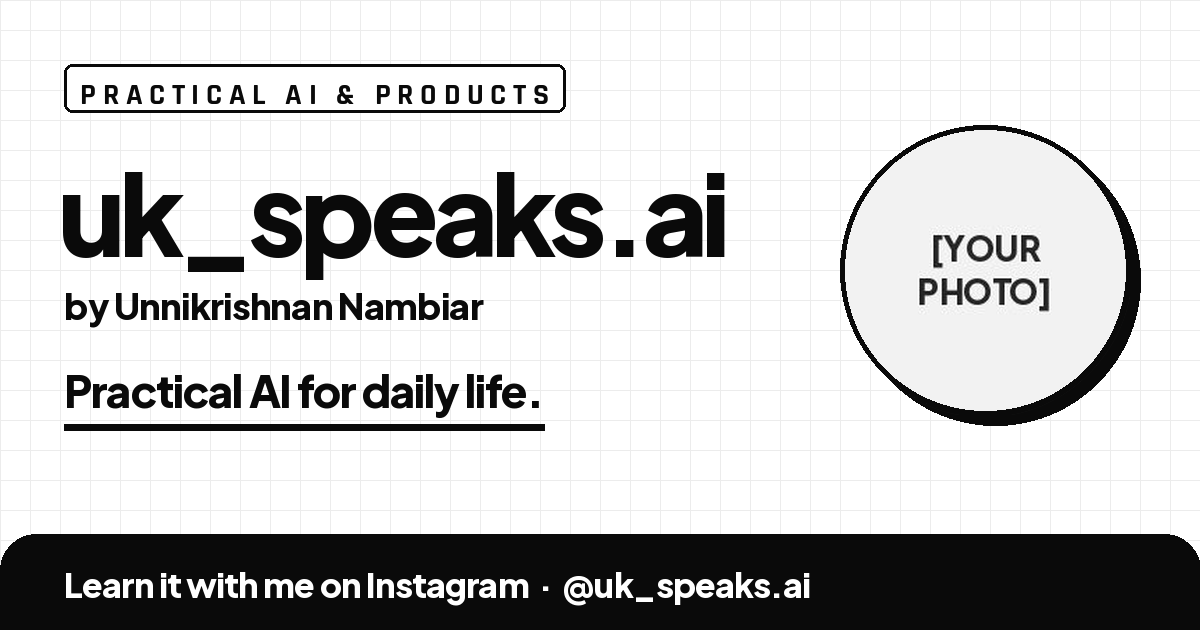
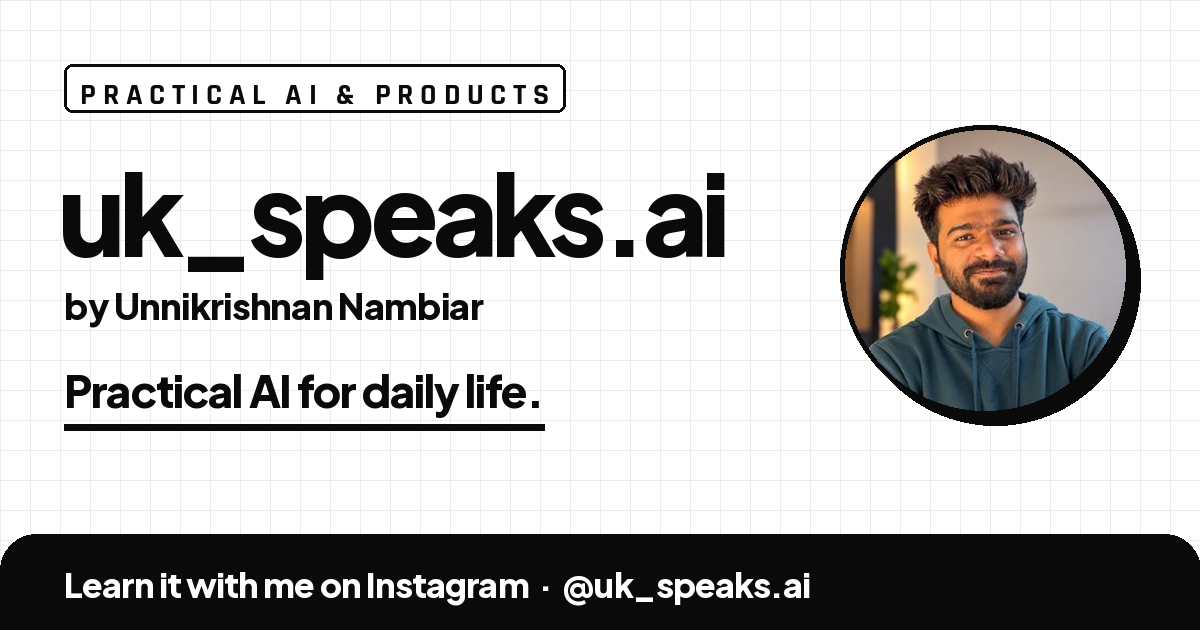
Add the real profile photo and full-colour home preview image
Claude-Session: https://claude.ai/code/session_01DrEtdZbPU4S7ibM2pCaEaR

Changed region(s): [[0.6783, 0.181, 0.9558, 0.6635]]

diff --git a/index.html b/index.html
@@ -13,14 +13,14 @@
   <meta property="og:title" content="uk_speaks.ai — Practical AI for daily life">
   <meta property="og:description" content="AI shouldn't need a tech background. Short reels showing everyday people how to actually use it, on the apps they already have.">
   <meta property="og:url" content="https://unnikrishnan-nambiar.github.io/uk_speaks.ai/">
-  <meta property="og:image" content="https://unnikrishnan-nambiar.github.io/uk_speaks.ai/assets/og/og-home.png">
+  <meta property="og:image" content="https://unnikrishnan-nambiar.github.io/uk_speaks.ai/assets/og/og-home.png?v=2">
   <meta property="og:image:width" content="1200">
   <meta property="og:image:height" content="630">
   <meta property="og:image:alt" content="uk_speaks.ai — Practical AI for daily life, by Unnikrishnan Nambiar">
   <meta name="twitter:card" content="summary_large_image">
   <meta name="twitter:title" content="uk_speaks.ai — Practical AI for daily life">
   <meta name="twitter:description" content="AI shouldn't need a tech background. Short reels showing everyday people how to actually use it, on the apps they already have.">
-  <meta name="twitter:image" content="https://unnikrishnan-nambiar.github.io/uk_speaks.ai/assets/og/og-home.png">
+  <meta name="twitter:image" content="https://unnikrishnan-nambiar.github.io/uk_speaks.ai/assets/og/og-home.png?v=2">
 
   <link rel="icon" href="favicon.svg" type="image/svg+xml">
   <link rel="icon" href="favicon-32.png" type="image/png" sizes="32x32">
@@ -41,8 +41,8 @@
       <div class="intro">
         <p class="bio">AI shouldn't need a tech background. I show everyday people how to actually use it — on the apps they already have. Building uk_speaks.ai.</p>
         <picture class="photo">
-          <source srcset="assets/img/photo.webp" type="image/webp">
-          <img src="assets/img/photo.jpg" width="104" height="104" alt="Unnikrishnan Nambiar">
+          <source srcset="assets/img/photo.webp?v=2" type="image/webp">
+          <img src="assets/img/photo.jpg?v=2" width="104" height="104" alt="Unnikrishnan Nambiar">
         </picture>
       </div>
     </header>

diff --git a/tools/make-images.py b/tools/make-images.py
@@ -171,7 +171,7 @@ def make_og_home():
     d.rectangle([64, ty + 62, end, ty + 68], fill=INK)
     circle_photo(img, os.path.join(ROOT, "assets", "img", "photo.jpg"), (985, 270), 290)
     footer_band(img, "Learn it with me on Instagram  ·  @uk_speaks.ai")
-    save_og(img, "og-home.png")
+    save_og(img, "og-home.png", full_color=True)  # a palette would posterize the photo
 
 
 def make_og_guide(keyword, title, filename):
@@ -203,9 +203,11 @@ def make_og_guide(keyword, title, filename):
     save_og(img, filename)
 
 
-def save_og(img, filename):
+def save_og(img, filename, full_color=False):
     path = os.path.join(ROOT, "assets", "og", filename)
-    img.quantize(colors=64, method=Image.Quantize.MEDIANCUT).save(path, optimize=True)
+    if not full_color:
+        img = img.quantize(colors=64, method=Image.Quantize.MEDIANCUT)
+    img.save(path, optimize=True)
     print(f"{os.path.relpath(path, ROOT)}  {os.path.getsize(path) // 1024}KB")
 
 

diff --git a/README.md b/README.md
@@ -23,7 +23,7 @@ g/reply-prompt/index.html  sample guide
 assets/css/site.css        shared by every page
 assets/js/copy.js          copy buttons, guides only
 assets/fonts/              Plus Jakarta Sans 500/800 + Rajdhani 700, subset WOFF2
-assets/img/photo.webp|jpg  home photo (placeholder for now)
+assets/img/photo.webp|jpg  home photo
 assets/og/                 1200×630 link-preview images
 favicon.svg, favicon-32.png, apple-touch-icon.png
 tools/make-images.py       regenerates placeholder images (optional)
@@ -101,10 +101,11 @@ Elsewhere it falls back to selecting the text.
 
 ## Things to fill in
 
-- **Photo**: replace `assets/img/photo.webp` and `assets/img/photo.jpg` with
-  a square crop of at least 208×208px, each under ~60KB. Then re-run
-  `python3 tools/make-images.py` so `og-home.png` uses it. The script never
-  overwrites an existing photo.
+- **Photo**: the real photo is in `assets/img/photo.webp` and
+  `assets/img/photo.jpg` (288×288). To swap it, save new files at the same
+  paths, keep each under ~60KB, then re-run `python3 tools/make-images.py`
+  so `og-home.png` uses it. Bump the `?v=` number on the photo and OG image
+  URLs in `index.html` so browsers and link previews pick up the change.
 - **Links** in `index.html`: Buy Me a Coffee, LinkedIn and X are still `#`
   (marked `TODO`).
 - **OG images and favicons** are generated placeholders. You can replace
